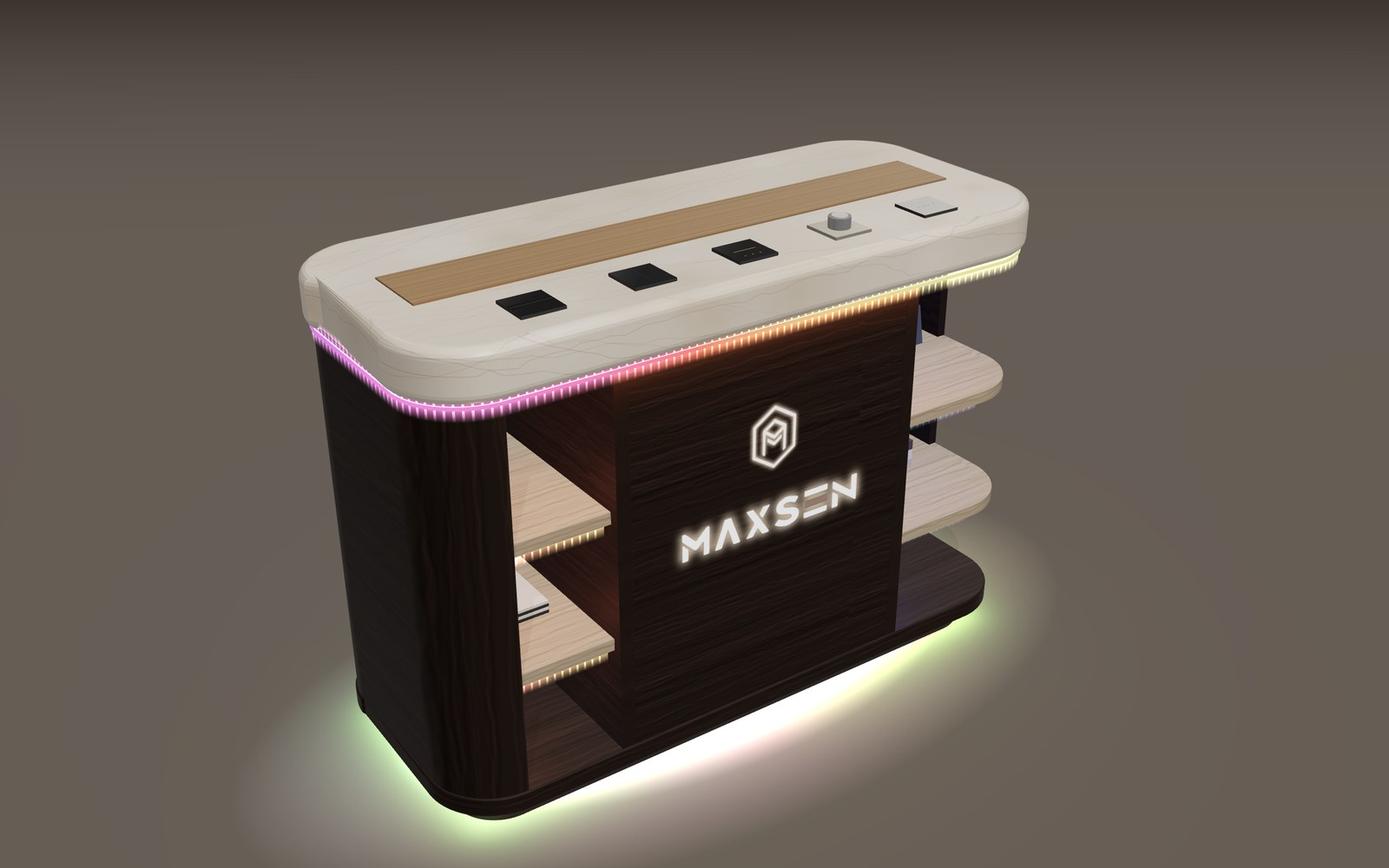
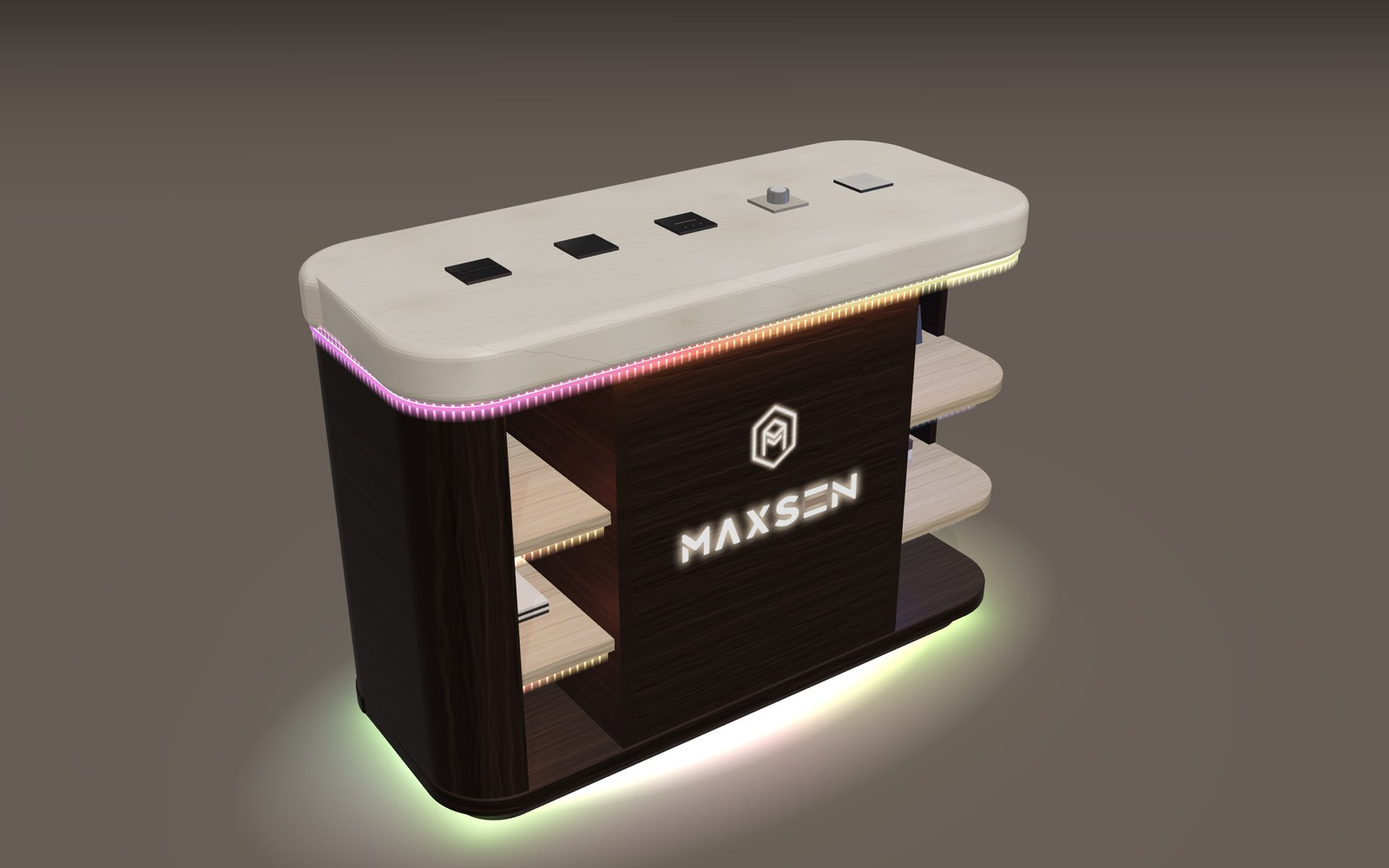
Counter: remove the oak strip from the top
The top is now plain porcelain stone, with the five live switches in
one row down the middle of its depth.

Claude-Session: https://claude.ai/code/session_019F6wLF1dU4g9eZjhze73rB

Changed region(s): [[0.25, 0.186, 0.6875, 0.372]]

diff --git a/booth-16x7/table/index.html b/booth-16x7/table/index.html
@@ -114,19 +114,19 @@ footer{border-top:1px solid var(--rule);padding-top:20px;font-size:13px;color:va
   <header class="head">
     <span class="eyebrow">Maxsen · booth furniture · from your reference</span>
     <h1>The switch counter, <em>in the Maxsen colours.</em></h1>
-    <p class="lede">A 1.4 m standing counter with a soft porcelain stone top, a 150 mm oak strip running down its middle, and a row of live Maxsen switches set into the stone. Below, a Midnight Bronze body with the Maxsen logo lit from behind on its closed centre, straight shelves at the left and curved shelves wrapping the right corner. Addressable RGBCCT LED strips run under the top, under each shelf and under the base.</p>
+    <p class="lede">A 1.4 m standing counter with a soft porcelain stone top and a row of live Maxsen switches set into the stone. Below, a Midnight Bronze body with the Maxsen logo lit from behind on its closed centre, straight shelves at the left and curved shelves wrapping the right corner. Addressable RGBCCT LED strips run under the top, under each shelf and under the base.</p>
     <div class="facts">
       <div><b>1,400 × 600</b><span>length × depth in mm (depth assumed)</span></div>
       <div><b>1,000</b><span>height in mm, standing counter</span></div>
-      <div><b>150 mm</b><span>oak strip down the middle of the top</span></div>
+      <div><b>5 switches</b><span>live, set into the stone</span></div>
       <div><b>RGBCCT IC</b><span>addressable LED: tunable white and full colour</span></div>
     </div>
   </header>
 
   <section aria-labelledby="look">
     <figure class="shot">
-      <img src="renders/day-hero.jpg" alt="Render of the counter: a cream stone top with rounded corners, an oak strip down the middle and five switches in front of it; below, a dark bronze wood body with the backlit Maxsen logo on its closed centre, straight shelves at the left and curved shelves at the right" width="1600" height="1000">
-      <figcaption><b>Daylight.</b> Porcelain stone, champagne oak, Midnight Bronze, and champagne inside the shelves.</figcaption>
+      <img src="renders/day-hero.jpg" alt="Render of the counter: a cream stone top with rounded corners and a row of five switches set into it; below, a dark bronze wood body with the backlit Maxsen logo on its closed centre, straight shelves at the left and curved shelves at the right" width="1600" height="1000">
+      <figcaption><b>Daylight.</b> Porcelain stone, Midnight Bronze, and champagne inside the shelves.</figcaption>
     </figure>
     <div class="grid2">
       <figure class="shot">
@@ -150,8 +150,7 @@ footer{border-top:1px solid var(--rule);padding-top:20px;font-size:13px;color:va
         <thead><tr><th>Part</th><th>Your reference</th><th>Maxsen version</th></tr></thead>
         <tbody>
           <tr><td><b>Top</b></td><td>Thick cream stone, rounded corners, glowing lower edge</td><td>Porcelain marble-look stone, 100 mm thick edge, 150 mm corners, warm LED line underneath</td></tr>
-          <tr><td><b>15 cm band</b></td><td>Marked across the top, top-down, in the middle</td><td>A 150 mm champagne oak strip, flush in the stone, running the length of the top</td></tr>
-          <tr><td><b>Switches</b></td><td>A row of switches set into the top</td><td>Lusano Prestige, Nova+ Pro in two styles, Halo and Folio, live, in front of the oak strip</td></tr>
+          <tr><td><b>Switches</b></td><td>A row of switches set into the top</td><td>Lusano Prestige, Nova+ Pro in two styles, Halo and Folio, live, in one row down the middle of the top</td></tr>
           <tr><td><b>Body</b></td><td>Dark walnut</td><td>Midnight Bronze wood veneer</td></tr>
           <tr><td><b>Shelves</b></td><td>Straight at the left, curved at the right, lit</td><td>The same, in champagne, with an RGBCCT strip under each shelf edge</td></tr>
           <tr><td><b>Centre</b></td><td>An open niche</td><td>Closed with a Midnight Bronze panel, 660 wide, carrying the Maxsen monogram and wordmark, lit from behind</td></tr>
@@ -170,8 +169,8 @@ footer{border-top:1px solid var(--rule);padding-top:20px;font-size:13px;color:va
     <div class="grid2">
       <figure class="shot"><img src="renders/day-front.jpg" alt="Straight-on front view: shelves at the left, the closed centre with the lit Maxsen logo, curved shelves at the right" width="1600" height="1000" loading="lazy"><figcaption><b>Front.</b> Shelves, the lit logo, curved shelves.</figcaption></figure>
       <figure class="shot"><img src="renders/day-end.jpg" alt="Three-quarter view of the right end, showing the curved shelves wrapping the corner" width="1600" height="1000" loading="lazy"><figcaption><b>Right end.</b> The shelves curve round the corner.</figcaption></figure>
-      <figure class="shot"><img src="renders/day-detail.jpg" alt="Close-up of the top: the oak strip and the row of five switches set into the stone" width="1600" height="1000" loading="lazy"><figcaption><b>The top, close.</b> Five live switches in front of the oak strip.</figcaption></figure>
-      <figure class="shot"><img src="renders/day-top.jpg" alt="Top-down view: the oak strip runs down the middle of the top, with the switch row in front" width="1600" height="1000" loading="lazy"><figcaption><b>From above.</b> The 150 mm strip down the middle.</figcaption></figure>
+      <figure class="shot"><img src="renders/day-detail.jpg" alt="Close-up of the top: the row of five switches set into the stone" width="1600" height="1000" loading="lazy"><figcaption><b>The top, close.</b> Five live switches set into plain stone.</figcaption></figure>
+      <figure class="shot"><img src="renders/day-top.jpg" alt="Top-down view: the plain stone top with the switch row down the middle" width="1600" height="1000" loading="lazy"><figcaption><b>From above.</b> Plain stone, one row of switches.</figcaption></figure>
     </div>
     <figure class="shot"><img src="renders/colour-low.jpg" alt="Low front view in colour mode: the RGB pixels visible along the top edge and under the base, with the logo lit in white" width="1600" height="1000" loading="lazy"><figcaption><b>Colour, low view.</b> The pixels of the IC strip along the top edge and the base, with the logo in white.</figcaption></figure>
     <div class="viewer">
@@ -201,7 +200,7 @@ footer{border-top:1px solid var(--rule);padding-top:20px;font-size:13px;color:va
       <figure class="sheet"><div class="sheet-h"><b>Front</b><span>mm</span></div><div class="scroll"><svg viewBox="-260 -150 2080 1370" class="dwg" role="img" aria-label="Front elevation with dimensions"><rect x="-60" y="1000" width="1520" height="10" class="floor"/><rect x="65" y="940" width="1270" height="58" rx="20" class="bronze"/><rect x="75" y="952" width="1250" height="5" class="led"/><rect x="15" y="100" width="1370" height="840" rx="10" class="body"/><rect x="35" y="120" width="1330" height="780" class="inner"/><rect x="355" y="100" width="30" height="840" class="body"/><rect x="1015" y="100" width="30" height="840" class="body"/><rect x="15" y="900" width="1370" height="40" class="body"/><rect x="385" y="100" width="630" height="840" class="body"/><polygon points="700,265 750,294 750,352 700,381 650,352 650,294" class="logo"/><text x="700" y="515" class="wordlit" text-anchor="middle">MAXSEN</text><rect x="35" y="658" width="320" height="25" class="shelf"/><rect x="1045" y="658" width="340" height="25" rx="6" class="shelf"/><rect x="35" y="388" width="320" height="25" class="shelf"/><rect x="1045" y="388" width="340" height="25" rx="6" class="shelf"/><rect x="0" y="0" width="1400" height="100" rx="24" class="stone"/><rect x="25" y="102" width="1350" height="5" class="led"/><g class="dim"><line x1="0" y1="-70" x2="1400" y2="-70"/><line x1="0" y1="-95" x2="0" y2="-45"/><line x1="1400" y1="-95" x2="1400" y2="-45"/></g><text x="700.0" y="-92" class="td" text-anchor="middle">1,400</text><g class="dim"><line x1="15" y1="1090" x2="370" y2="1090"/><line x1="15" y1="1065" x2="15" y2="1115"/><line x1="370" y1="1065" x2="370" y2="1115"/></g><text x="192.5" y="1150" class="td" text-anchor="middle">355 shelves</text><g class="dim"><line x1="370" y1="1090" x2="1030" y2="1090"/><line x1="370" y1="1065" x2="370" y2="1115"/><line x1="1030" y1="1065" x2="1030" y2="1115"/></g><text x="700.0" y="1150" class="td" text-anchor="middle">660 closed, lit logo</text><g class="dim"><line x1="1030" y1="1090" x2="1385" y2="1090"/><line x1="1030" y1="1065" x2="1030" y2="1115"/><line x1="1385" y1="1065" x2="1385" y2="1115"/></g><text x="1207.5" y="1150" class="td" text-anchor="middle">355 curved shelves</text><g class="dim"><line x1="-60" y1="0" x2="-60" y2="1000"/><line x1="-85" y1="0" x2="-35" y2="0"/><line x1="-85" y1="1000" x2="-35" y2="1000"/></g><text x="-88" y="514.0" class="td" text-anchor="end">1,000</text><g class="dim"><line x1="1460" y1="0" x2="1460" y2="100"/><line x1="1435" y1="0" x2="1485" y2="0"/><line x1="1435" y1="100" x2="1485" y2="100"/></g><text x="1490" y="64.0" class="td" text-anchor="start">100 top</text><g class="dim"><line x1="1460" y1="940" x2="1460" y2="1000"/><line x1="1435" y1="940" x2="1485" y2="940"/><line x1="1435" y1="1000" x2="1485" y2="1000"/></g><text x="1490" y="984.0" class="td" text-anchor="start">60 base</text><text x="1460" y="682" class="td" text-anchor="start">shelf 330</text><text x="1460" y="412" class="td" text-anchor="start">shelf 600</text></svg></div></figure>
       <figure class="sheet"><div class="sheet-h"><b>End</b><span>mm</span></div><div class="scroll"><svg viewBox="-260 -150 1000 1370" class="dwg narrow" role="img" aria-label="End elevation"><rect x="-60" y="1000" width="720" height="10" class="floor"/><rect x="65" y="940" width="470" height="58" rx="20" class="bronze"/><rect x="75" y="952" width="450" height="5" class="led"/><rect x="15" y="100" width="570" height="840" rx="10" class="body"/><rect x="0" y="0" width="600" height="100" rx="24" class="stone"/><rect x="25" y="102" width="550" height="5" class="led"/><g class="dim"><line x1="0" y1="-70" x2="600" y2="-70"/><line x1="0" y1="-95" x2="0" y2="-45"/><line x1="600" y1="-95" x2="600" y2="-45"/></g><text x="300.0" y="-92" class="td" text-anchor="middle">600 (to confirm)</text><g class="dim"><line x1="-60" y1="0" x2="-60" y2="1000"/><line x1="-85" y1="0" x2="-35" y2="0"/><line x1="-85" y1="1000" x2="-35" y2="1000"/></g><text x="-88" y="514.0" class="td" text-anchor="end">1,000</text><text x="300" y="500" class="tz" text-anchor="middle">LEFT END</text></svg></div></figure>
     </div>
-    <figure class="sheet"><div class="sheet-h"><b>Plan from above</b><span>front at the bottom</span></div><div class="scroll"><svg viewBox="-260 -150 2080 870" class="dwg" role="img" aria-label="Plan from above: the 150 mm oak strip down the middle of the top, with five switches set in front of it"><rect x="0" y="0" width="1400" height="600" rx="150" class="stone"/><rect x="100" y="225" width="1200" height="150" class="oak"/><rect x="217" y="444" width="86" height="86" rx="6" class="sw"/><rect x="437" y="444" width="86" height="86" rx="6" class="sw"/><rect x="657" y="444" width="86" height="86" rx="6" class="sw"/><rect x="877" y="444" width="86" height="86" rx="6" class="sw"/><rect x="1097" y="444" width="86" height="86" rx="6" class="sw"/><text x="700" y="315" class="tdw" text-anchor="middle">150 oak strip, down the middle</text><text x="700" y="660" class="tz" text-anchor="middle">FRONT · SWITCH ROW</text><g class="dim"><line x1="0" y1="-70" x2="1400" y2="-70"/><line x1="0" y1="-95" x2="0" y2="-45"/><line x1="1400" y1="-95" x2="1400" y2="-45"/></g><text x="700.0" y="-92" class="td" text-anchor="middle">1,400</text><g class="dim"><line x1="-60" y1="0" x2="-60" y2="600"/><line x1="-85" y1="0" x2="-35" y2="0"/><line x1="-85" y1="600" x2="-35" y2="600"/></g><text x="-88" y="314.0" class="td" text-anchor="end">600</text><g class="dim"><line x1="1460" y1="225" x2="1460" y2="375"/><line x1="1435" y1="225" x2="1485" y2="225"/><line x1="1435" y1="375" x2="1485" y2="375"/></g><text x="1490" y="314.0" class="td" text-anchor="start">150</text><path d="M1400 150 A150 150 0 0 0 1250 0" class="radius"/><text x="1430" y="80" class="td" text-anchor="start">R150</text></svg></div></figure>
+    <figure class="sheet"><div class="sheet-h"><b>Plan from above</b><span>front at the bottom</span></div><div class="scroll"><svg viewBox="-260 -150 2080 870" class="dwg" role="img" aria-label="Plan from above: plain stone top with five switches in one row down the middle"><rect x="0" y="0" width="1400" height="600" rx="150" class="stone"/><rect x="217" y="257" width="86" height="86" rx="6" class="sw"/><rect x="437" y="257" width="86" height="86" rx="6" class="sw"/><rect x="657" y="257" width="86" height="86" rx="6" class="sw"/><rect x="877" y="257" width="86" height="86" rx="6" class="sw"/><rect x="1097" y="257" width="86" height="86" rx="6" class="sw"/><text x="700" y="660" class="tz" text-anchor="middle">FRONT</text><g class="dim"><line x1="0" y1="-70" x2="1400" y2="-70"/><line x1="0" y1="-95" x2="0" y2="-45"/><line x1="1400" y1="-95" x2="1400" y2="-45"/></g><text x="700.0" y="-92" class="td" text-anchor="middle">1,400</text><g class="dim"><line x1="-60" y1="0" x2="-60" y2="600"/><line x1="-85" y1="0" x2="-35" y2="0"/><line x1="-85" y1="600" x2="-35" y2="600"/></g><text x="-88" y="314.0" class="td" text-anchor="end">600</text><path d="M1400 150 A150 150 0 0 0 1250 0" class="radius"/><text x="1430" y="80" class="td" text-anchor="start">R150</text></svg></div></figure>
   </section>
 
   <section aria-labelledby="spec">
@@ -215,8 +214,7 @@ footer{border-top:1px solid var(--rule);padding-top:20px;font-size:13px;color:va
         <ul class="plain">
           <li>1,400 × 600, 150 mm corner radius, 100 mm thick with a softly rounded edge.</li>
           <li>Porcelain marble-look sintered stone, 12 mm on a plywood core with a built-up edge, so it stays liftable.</li>
-          <li>A 150 mm champagne oak strip, set flush, running the length of the top through the middle of its depth.</li>
-          <li>Five cut-outs for 86-type switches in front of the strip, with back boxes inside the top and wiring down through the niche.</li>
+          <li>Five cut-outs for 86-type switches in one row down the middle of the top, 220 mm apart, with back boxes inside the top and wiring down through the centre.</li>
         </ul>
         <h3>Body</h3>
         <ul class="plain">
@@ -245,11 +243,10 @@ footer{border-top:1px solid var(--rule);padding-top:20px;font-size:13px;color:va
   <section aria-labelledby="conf">
     <div class="head">
       <span class="eyebrow">To confirm</span>
-      <h2 id="conf">Five things to check</h2>
+      <h2 id="conf">Four things to check</h2>
     </div>
     <div class="confirm">
-      <div><b>Depth</b><span>Still assumed at 600 mm. A deeper top gives more space for the switches in front of the strip.</span></div>
-      <div><b>The oak strip</b><span>I ran it almost the full length, stopping 100 mm from each end. It can also run to the edges, or stop at the switch row.</span></div>
+      <div><b>Depth</b><span>Still assumed at 600 mm. The switch row sits down the middle, so it works at any depth from about 500 mm.</span></div>
       <div><b>Which switches</b><span>Shown: Lusano Prestige, Nova+ Pro (two styles), Halo and Folio. Swap in any five.</span></div>
       <div><b>Panel width</b><span>The closed centre is 660 mm wide, which keeps the shelf bays usable either side. Widening it to about 1 m would leave the end bays too narrow for shelves on a 1.4 m counter.</span></div>
       <div><b>Where it goes in the booth</b><span>It could replace the two round tables as one consult counter, or sit beside them. Tell me and I'll add it to the booth plan.</span></div>
@@ -269,7 +266,6 @@ footer{border-top:1px solid var(--rule);padding-top:20px;font-size:13px;color:va
 window.MaxsenTable = (function () {
   const L = 1.4, D = 0.6, H = 1.0;
   const TOP = 0.1, R = 0.15;               // a thick, soft stone top with 150 mm corners
-  const STRIP = 0.15;                      // the 150 mm oak strip down the middle of the top
   const OV = 0.015;                        // the top overhangs the body by 15 mm
   const BL = L - 2 * OV, BD = D - 2 * OV, BR = R - OV;
   const BASE = 0.06, T = 0.02;             // floating base; panel thickness
@@ -392,11 +388,9 @@ window.MaxsenTable = (function () {
     Object.assign(key.shadow.camera, { left: -2, right: 2, top: 2, bottom: -2, near: .5, far: 12 }); key.shadow.bias = -.0004; scene.add(key);
     const rim = new THREE.DirectionalLight(0xffe6cc, night ? .05 : .22); rim.position.set(3, 2.5, -3); scene.add(rim);
 
-    // Maxsen colourway: porcelain stone, champagne oak, Midnight Bronze body, champagne-lit interiors
+    // Maxsen colourway: porcelain stone, Midnight Bronze body, champagne-lit interiors
     const stoneMat = new THREE.MeshPhysicalMaterial({ map: tex(THREE, stone(THREE), 1 / L, 1 / D), roughness: .38, clearcoat: .25, clearcoatRoughness: .35, envMapIntensity: night ? .3 : .45 });
     stoneMat.map.offset.set(.5, .5);
-    const oakMat = std({ map: tex(THREE, wood(THREE, '#C09A6E', '96,66,40', '224,192,150'), 1 / L, 1), roughness: .5 });
-    oakMat.map.offset.set(.5, 0);
     const bodyWood = wood(THREE, '#3E3029', '24,17,13', '110,86,70');
     const bodyMat = std({ map: tex(THREE, bodyWood, 1.2, 1), roughness: .55 });
     const bodyMatV = std({ map: tex(THREE, bodyWood, 1, 1), roughness: .55 }); bodyMatV.map.rotation = Math.PI / 2;
@@ -427,14 +421,12 @@ window.MaxsenTable = (function () {
 
     // the top: 100 mm thick, rounded corners and softened edges
     add(slab(THREE, rr(THREE, L - .04, D - .04, R - .02), TOP, .02), stoneMat, 0, Y1, 0);
-    // the 150 mm oak strip, down the middle of the top, set flush
-    add(new THREE.BoxGeometry(L - .2, .004, STRIP), oakMat, 0, H + .0015, 0, { cast: false });
     // the LED line along the underside edge of the top
     pixels(perimeter(BL + .006, BD + .006, BR + .003, .016), Y1 - .006);
 
-    // live Maxsen switches set into the top, in front of the oak strip
+    // live Maxsen switches set into the top, in one row down the middle
     const SW = [['prestige', -.44], ['nova2', -.22], ['nova', 0], ['halo', .22], ['folio', .44]];
-    const swZ = STRIP / 2 + (D / 2 - STRIP / 2) / 2;
+    const swZ = 0;
     SW.forEach(([k, x]) => {
       if (k === 'halo') {
         add(new THREE.BoxGeometry(.086, .006, .086), std({ color: 0xC9B79C, roughness: .35, metalness: .5 }), x, H + .003, swZ);

diff --git a/booth-16x7/table/src/template2.html b/booth-16x7/table/src/template2.html
@@ -114,19 +114,19 @@ footer{border-top:1px solid var(--rule);padding-top:20px;font-size:13px;color:va
   <header class="head">
     <span class="eyebrow">Maxsen · booth furniture · from your reference</span>
     <h1>The switch counter, <em>in the Maxsen colours.</em></h1>
-    <p class="lede">A 1.4 m standing counter with a soft porcelain stone top, a 150 mm oak strip running down its middle, and a row of live Maxsen switches set into the stone. Below, a Midnight Bronze body with the Maxsen logo lit from behind on its closed centre, straight shelves at the left and curved shelves wrapping the right corner. Addressable RGBCCT LED strips run under the top, under each shelf and under the base.</p>
+    <p class="lede">A 1.4 m standing counter with a soft porcelain stone top and a row of live Maxsen switches set into the stone. Below, a Midnight Bronze body with the Maxsen logo lit from behind on its closed centre, straight shelves at the left and curved shelves wrapping the right corner. Addressable RGBCCT LED strips run under the top, under each shelf and under the base.</p>
     <div class="facts">
       <div><b>1,400 × 600</b><span>length × depth in mm (depth assumed)</span></div>
       <div><b>1,000</b><span>height in mm, standing counter</span></div>
-      <div><b>150 mm</b><span>oak strip down the middle of the top</span></div>
+      <div><b>5 switches</b><span>live, set into the stone</span></div>
       <div><b>RGBCCT IC</b><span>addressable LED: tunable white and full colour</span></div>
     </div>
   </header>
 
   <section aria-labelledby="look">
     <figure class="shot">
-      <img src="renders/day-hero.jpg" alt="Render of the counter: a cream stone top with rounded corners, an oak strip down the middle and five switches in front of it; below, a dark bronze wood body with the backlit Maxsen logo on its closed centre, straight shelves at the left and curved shelves at the right" width="1600" height="1000">
-      <figcaption><b>Daylight.</b> Porcelain stone, champagne oak, Midnight Bronze, and champagne inside the shelves.</figcaption>
+      <img src="renders/day-hero.jpg" alt="Render of the counter: a cream stone top with rounded corners and a row of five switches set into it; below, a dark bronze wood body with the backlit Maxsen logo on its closed centre, straight shelves at the left and curved shelves at the right" width="1600" height="1000">
+      <figcaption><b>Daylight.</b> Porcelain stone, Midnight Bronze, and champagne inside the shelves.</figcaption>
     </figure>
     <div class="grid2">
       <figure class="shot">
@@ -150,8 +150,7 @@ footer{border-top:1px solid var(--rule);padding-top:20px;font-size:13px;color:va
         <thead><tr><th>Part</th><th>Your reference</th><th>Maxsen version</th></tr></thead>
         <tbody>
           <tr><td><b>Top</b></td><td>Thick cream stone, rounded corners, glowing lower edge</td><td>Porcelain marble-look stone, 100 mm thick edge, 150 mm corners, warm LED line underneath</td></tr>
-          <tr><td><b>15 cm band</b></td><td>Marked across the top, top-down, in the middle</td><td>A 150 mm champagne oak strip, flush in the stone, running the length of the top</td></tr>
-          <tr><td><b>Switches</b></td><td>A row of switches set into the top</td><td>Lusano Prestige, Nova+ Pro in two styles, Halo and Folio, live, in front of the oak strip</td></tr>
+          <tr><td><b>Switches</b></td><td>A row of switches set into the top</td><td>Lusano Prestige, Nova+ Pro in two styles, Halo and Folio, live, in one row down the middle of the top</td></tr>
           <tr><td><b>Body</b></td><td>Dark walnut</td><td>Midnight Bronze wood veneer</td></tr>
           <tr><td><b>Shelves</b></td><td>Straight at the left, curved at the right, lit</td><td>The same, in champagne, with an RGBCCT strip under each shelf edge</td></tr>
           <tr><td><b>Centre</b></td><td>An open niche</td><td>Closed with a Midnight Bronze panel, 660 wide, carrying the Maxsen monogram and wordmark, lit from behind</td></tr>
@@ -170,8 +169,8 @@ footer{border-top:1px solid var(--rule);padding-top:20px;font-size:13px;color:va
     <div class="grid2">
       <figure class="shot"><img src="renders/day-front.jpg" alt="Straight-on front view: shelves at the left, the closed centre with the lit Maxsen logo, curved shelves at the right" width="1600" height="1000" loading="lazy"><figcaption><b>Front.</b> Shelves, the lit logo, curved shelves.</figcaption></figure>
       <figure class="shot"><img src="renders/day-end.jpg" alt="Three-quarter view of the right end, showing the curved shelves wrapping the corner" width="1600" height="1000" loading="lazy"><figcaption><b>Right end.</b> The shelves curve round the corner.</figcaption></figure>
-      <figure class="shot"><img src="renders/day-detail.jpg" alt="Close-up of the top: the oak strip and the row of five switches set into the stone" width="1600" height="1000" loading="lazy"><figcaption><b>The top, close.</b> Five live switches in front of the oak strip.</figcaption></figure>
-      <figure class="shot"><img src="renders/day-top.jpg" alt="Top-down view: the oak strip runs down the middle of the top, with the switch row in front" width="1600" height="1000" loading="lazy"><figcaption><b>From above.</b> The 150 mm strip down the middle.</figcaption></figure>
+      <figure class="shot"><img src="renders/day-detail.jpg" alt="Close-up of the top: the row of five switches set into the stone" width="1600" height="1000" loading="lazy"><figcaption><b>The top, close.</b> Five live switches set into plain stone.</figcaption></figure>
+      <figure class="shot"><img src="renders/day-top.jpg" alt="Top-down view: the plain stone top with the switch row down the middle" width="1600" height="1000" loading="lazy"><figcaption><b>From above.</b> Plain stone, one row of switches.</figcaption></figure>
     </div>
     <figure class="shot"><img src="renders/colour-low.jpg" alt="Low front view in colour mode: the RGB pixels visible along the top edge and under the base, with the logo lit in white" width="1600" height="1000" loading="lazy"><figcaption><b>Colour, low view.</b> The pixels of the IC strip along the top edge and the base, with the logo in white.</figcaption></figure>
     <div class="viewer">
@@ -215,8 +214,7 @@ footer{border-top:1px solid var(--rule);padding-top:20px;font-size:13px;color:va
         <ul class="plain">
           <li>1,400 × 600, 150 mm corner radius, 100 mm thick with a softly rounded edge.</li>
           <li>Porcelain marble-look sintered stone, 12 mm on a plywood core with a built-up edge, so it stays liftable.</li>
-          <li>A 150 mm champagne oak strip, set flush, running the length of the top through the middle of its depth.</li>
-          <li>Five cut-outs for 86-type switches in front of the strip, with back boxes inside the top and wiring down through the niche.</li>
+          <li>Five cut-outs for 86-type switches in one row down the middle of the top, 220 mm apart, with back boxes inside the top and wiring down through the centre.</li>
         </ul>
         <h3>Body</h3>
         <ul class="plain">
@@ -245,11 +243,10 @@ footer{border-top:1px solid var(--rule);padding-top:20px;font-size:13px;color:va
   <section aria-labelledby="conf">
     <div class="head">
       <span class="eyebrow">To confirm</span>
-      <h2 id="conf">Five things to check</h2>
+      <h2 id="conf">Four things to check</h2>
     </div>
     <div class="confirm">
-      <div><b>Depth</b><span>Still assumed at 600 mm. A deeper top gives more space for the switches in front of the strip.</span></div>
-      <div><b>The oak strip</b><span>I ran it almost the full length, stopping 100 mm from each end. It can also run to the edges, or stop at the switch row.</span></div>
+      <div><b>Depth</b><span>Still assumed at 600 mm. The switch row sits down the middle, so it works at any depth from about 500 mm.</span></div>
       <div><b>Which switches</b><span>Shown: Lusano Prestige, Nova+ Pro (two styles), Halo and Folio. Swap in any five.</span></div>
       <div><b>Panel width</b><span>The closed centre is 660 mm wide, which keeps the shelf bays usable either side. Widening it to about 1 m would leave the end bays too narrow for shelves on a 1.4 m counter.</span></div>
       <div><b>Where it goes in the booth</b><span>It could replace the two round tables as one consult counter, or sit beside them. Tell me and I'll add it to the booth plan.</span></div>

diff --git a/booth-16x7/table/src/table2.js b/booth-16x7/table/src/table2.js
@@ -4,7 +4,6 @@
 window.MaxsenTable = (function () {
   const L = 1.4, D = 0.6, H = 1.0;
   const TOP = 0.1, R = 0.15;               // a thick, soft stone top with 150 mm corners
-  const STRIP = 0.15;                      // the 150 mm oak strip down the middle of the top
   const OV = 0.015;                        // the top overhangs the body by 15 mm
   const BL = L - 2 * OV, BD = D - 2 * OV, BR = R - OV;
   const BASE = 0.06, T = 0.02;             // floating base; panel thickness
@@ -127,11 +126,9 @@ window.MaxsenTable = (function () {
     Object.assign(key.shadow.camera, { left: -2, right: 2, top: 2, bottom: -2, near: .5, far: 12 }); key.shadow.bias = -.0004; scene.add(key);
     const rim = new THREE.DirectionalLight(0xffe6cc, night ? .05 : .22); rim.position.set(3, 2.5, -3); scene.add(rim);
 
-    // Maxsen colourway: porcelain stone, champagne oak, Midnight Bronze body, champagne-lit interiors
+    // Maxsen colourway: porcelain stone, Midnight Bronze body, champagne-lit interiors
     const stoneMat = new THREE.MeshPhysicalMaterial({ map: tex(THREE, stone(THREE), 1 / L, 1 / D), roughness: .38, clearcoat: .25, clearcoatRoughness: .35, envMapIntensity: night ? .3 : .45 });
     stoneMat.map.offset.set(.5, .5);
-    const oakMat = std({ map: tex(THREE, wood(THREE, '#C09A6E', '96,66,40', '224,192,150'), 1 / L, 1), roughness: .5 });
-    oakMat.map.offset.set(.5, 0);
     const bodyWood = wood(THREE, '#3E3029', '24,17,13', '110,86,70');
     const bodyMat = std({ map: tex(THREE, bodyWood, 1.2, 1), roughness: .55 });
     const bodyMatV = std({ map: tex(THREE, bodyWood, 1, 1), roughness: .55 }); bodyMatV.map.rotation = Math.PI / 2;
@@ -162,14 +159,12 @@ window.MaxsenTable = (function () {
 
     // the top: 100 mm thick, rounded corners and softened edges
     add(slab(THREE, rr(THREE, L - .04, D - .04, R - .02), TOP, .02), stoneMat, 0, Y1, 0);
-    // the 150 mm oak strip, down the middle of the top, set flush
-    add(new THREE.BoxGeometry(L - .2, .004, STRIP), oakMat, 0, H + .0015, 0, { cast: false });
     // the LED line along the underside edge of the top
     pixels(perimeter(BL + .006, BD + .006, BR + .003, .016), Y1 - .006);
 
-    // live Maxsen switches set into the top, in front of the oak strip
+    // live Maxsen switches set into the top, in one row down the middle
     const SW = [['prestige', -.44], ['nova2', -.22], ['nova', 0], ['halo', .22], ['folio', .44]];
-    const swZ = STRIP / 2 + (D / 2 - STRIP / 2) / 2;
+    const swZ = 0;
     SW.forEach(([k, x]) => {
       if (k === 'halo') {
         add(new THREE.BoxGeometry(.086, .006, .086), std({ color: 0xC9B79C, roughness: .35, metalness: .5 }), x, H + .003, swZ);

diff --git a/booth-16x7/table/src/drawings2.py b/booth-16x7/table/src/drawings2.py
@@ -52,17 +52,15 @@ end = f'<svg viewBox="-260 -150 1000 1370" class="dwg narrow" role="img" aria-la
 
 # plan: top down, front at the bottom
 p = [f'<rect x="0" y="0" width="1400" height="600" rx="150" class="stone"/>',
-     f'<rect x="100" y="225" width="1200" height="150" class="oak"/>']
+]
 for i, x in enumerate((260, 480, 700, 920, 1140)):
-    p.append(f'<rect x="{x-43}" y="{(375+600)/2-43:.0f}" width="86" height="86" rx="6" class="sw"/>')
-p.append(t(700, 315, "150 oak strip, down the middle", "tdw"))
-p.append(t(700, 640 + 20, "FRONT · SWITCH ROW", "tz"))
+    p.append(f'<rect x="{x-43}" y="{300-43}" width="86" height="86" rx="6" class="sw"/>')
+p.append(t(700, 640 + 20, "FRONT", "tz"))
 p.append(hdim(0, 1400, -70, "1,400"))
 p.append(vdim(-60, 0, 600, "600"))
-p.append(vdim(1460, 225, 375, "150", "right"))
 p.append('<path d="M1400 150 A150 150 0 0 0 1250 0" class="radius"/>')
 p.append(t(1430, 80, "R150", "td", "start"))
-plan = f'<svg viewBox="-260 -150 2080 870" class="dwg" role="img" aria-label="Plan from above: the 150 mm oak strip down the middle of the top, with five switches set in front of it">{"".join(p)}</svg>'
+plan = f'<svg viewBox="-260 -150 2080 870" class="dwg" role="img" aria-label="Plan from above: plain stone top with five switches in one row down the middle">{"".join(p)}</svg>'
 
 html = open(sys.argv[1]).read()
 html = html.replace("{{FRONT}}", front).replace("{{END}}", end).replace("{{PLAN}}", plan).replace("{{SCENE}}", open("table2.js").read())
